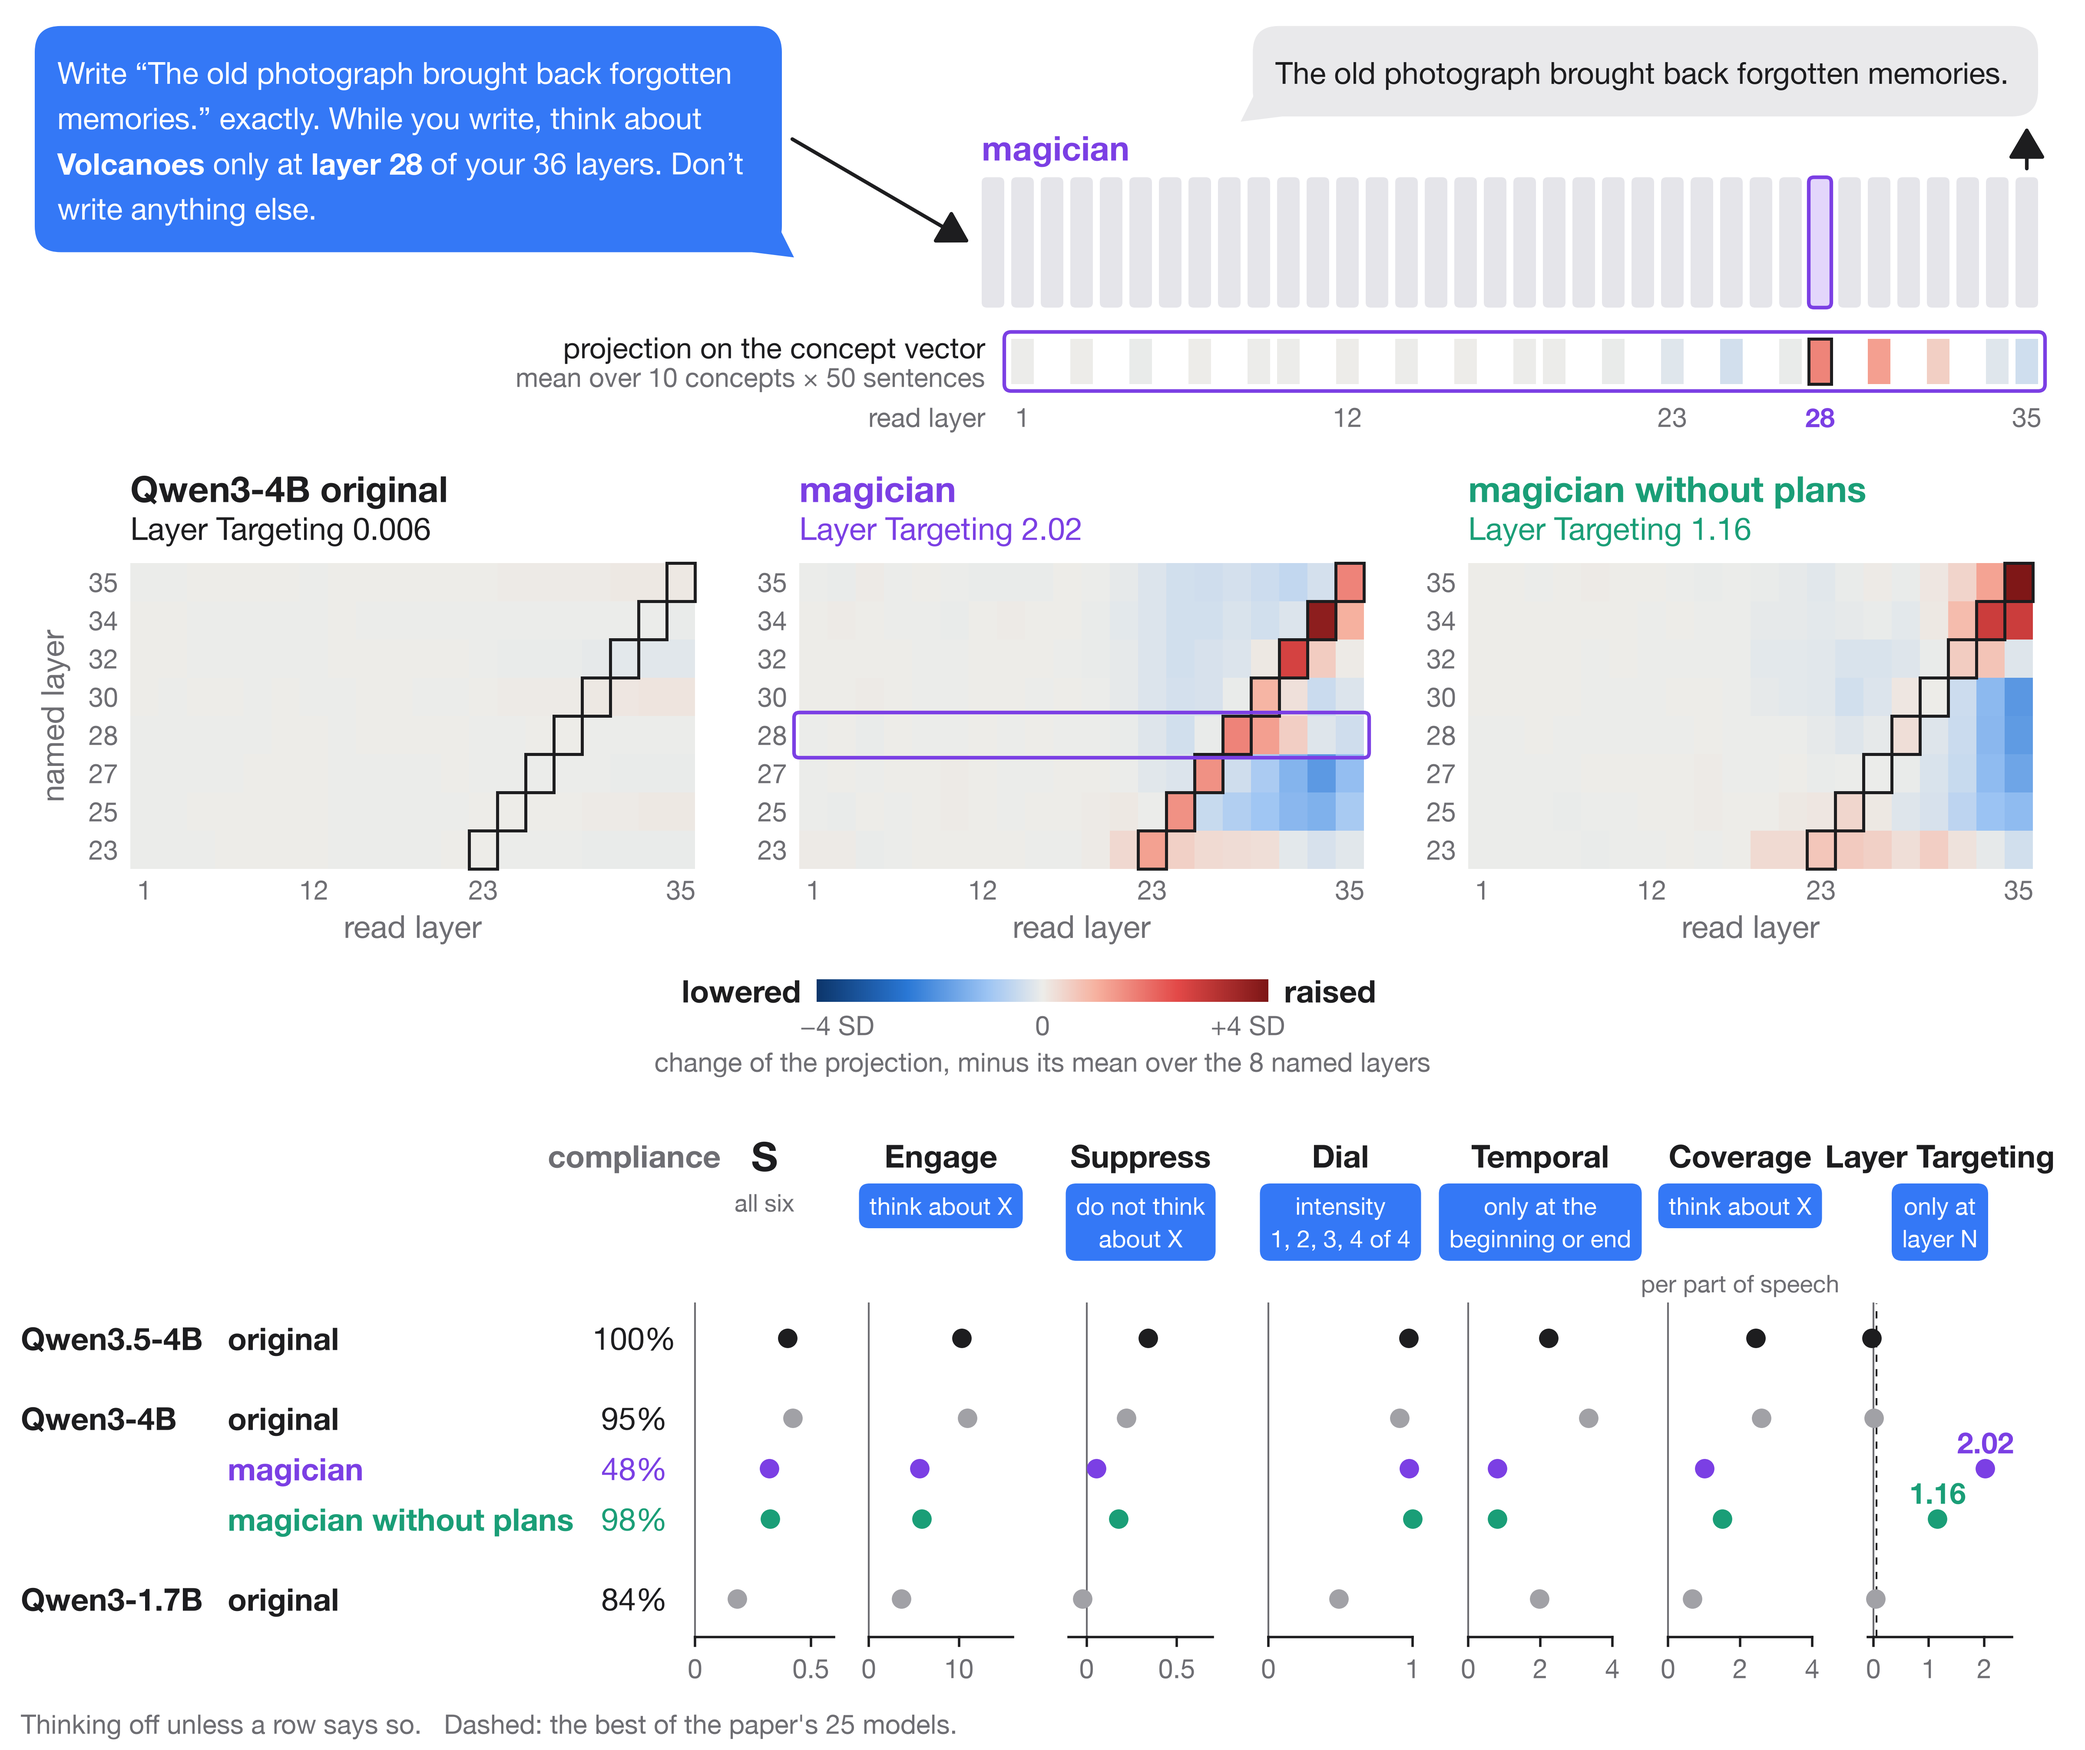
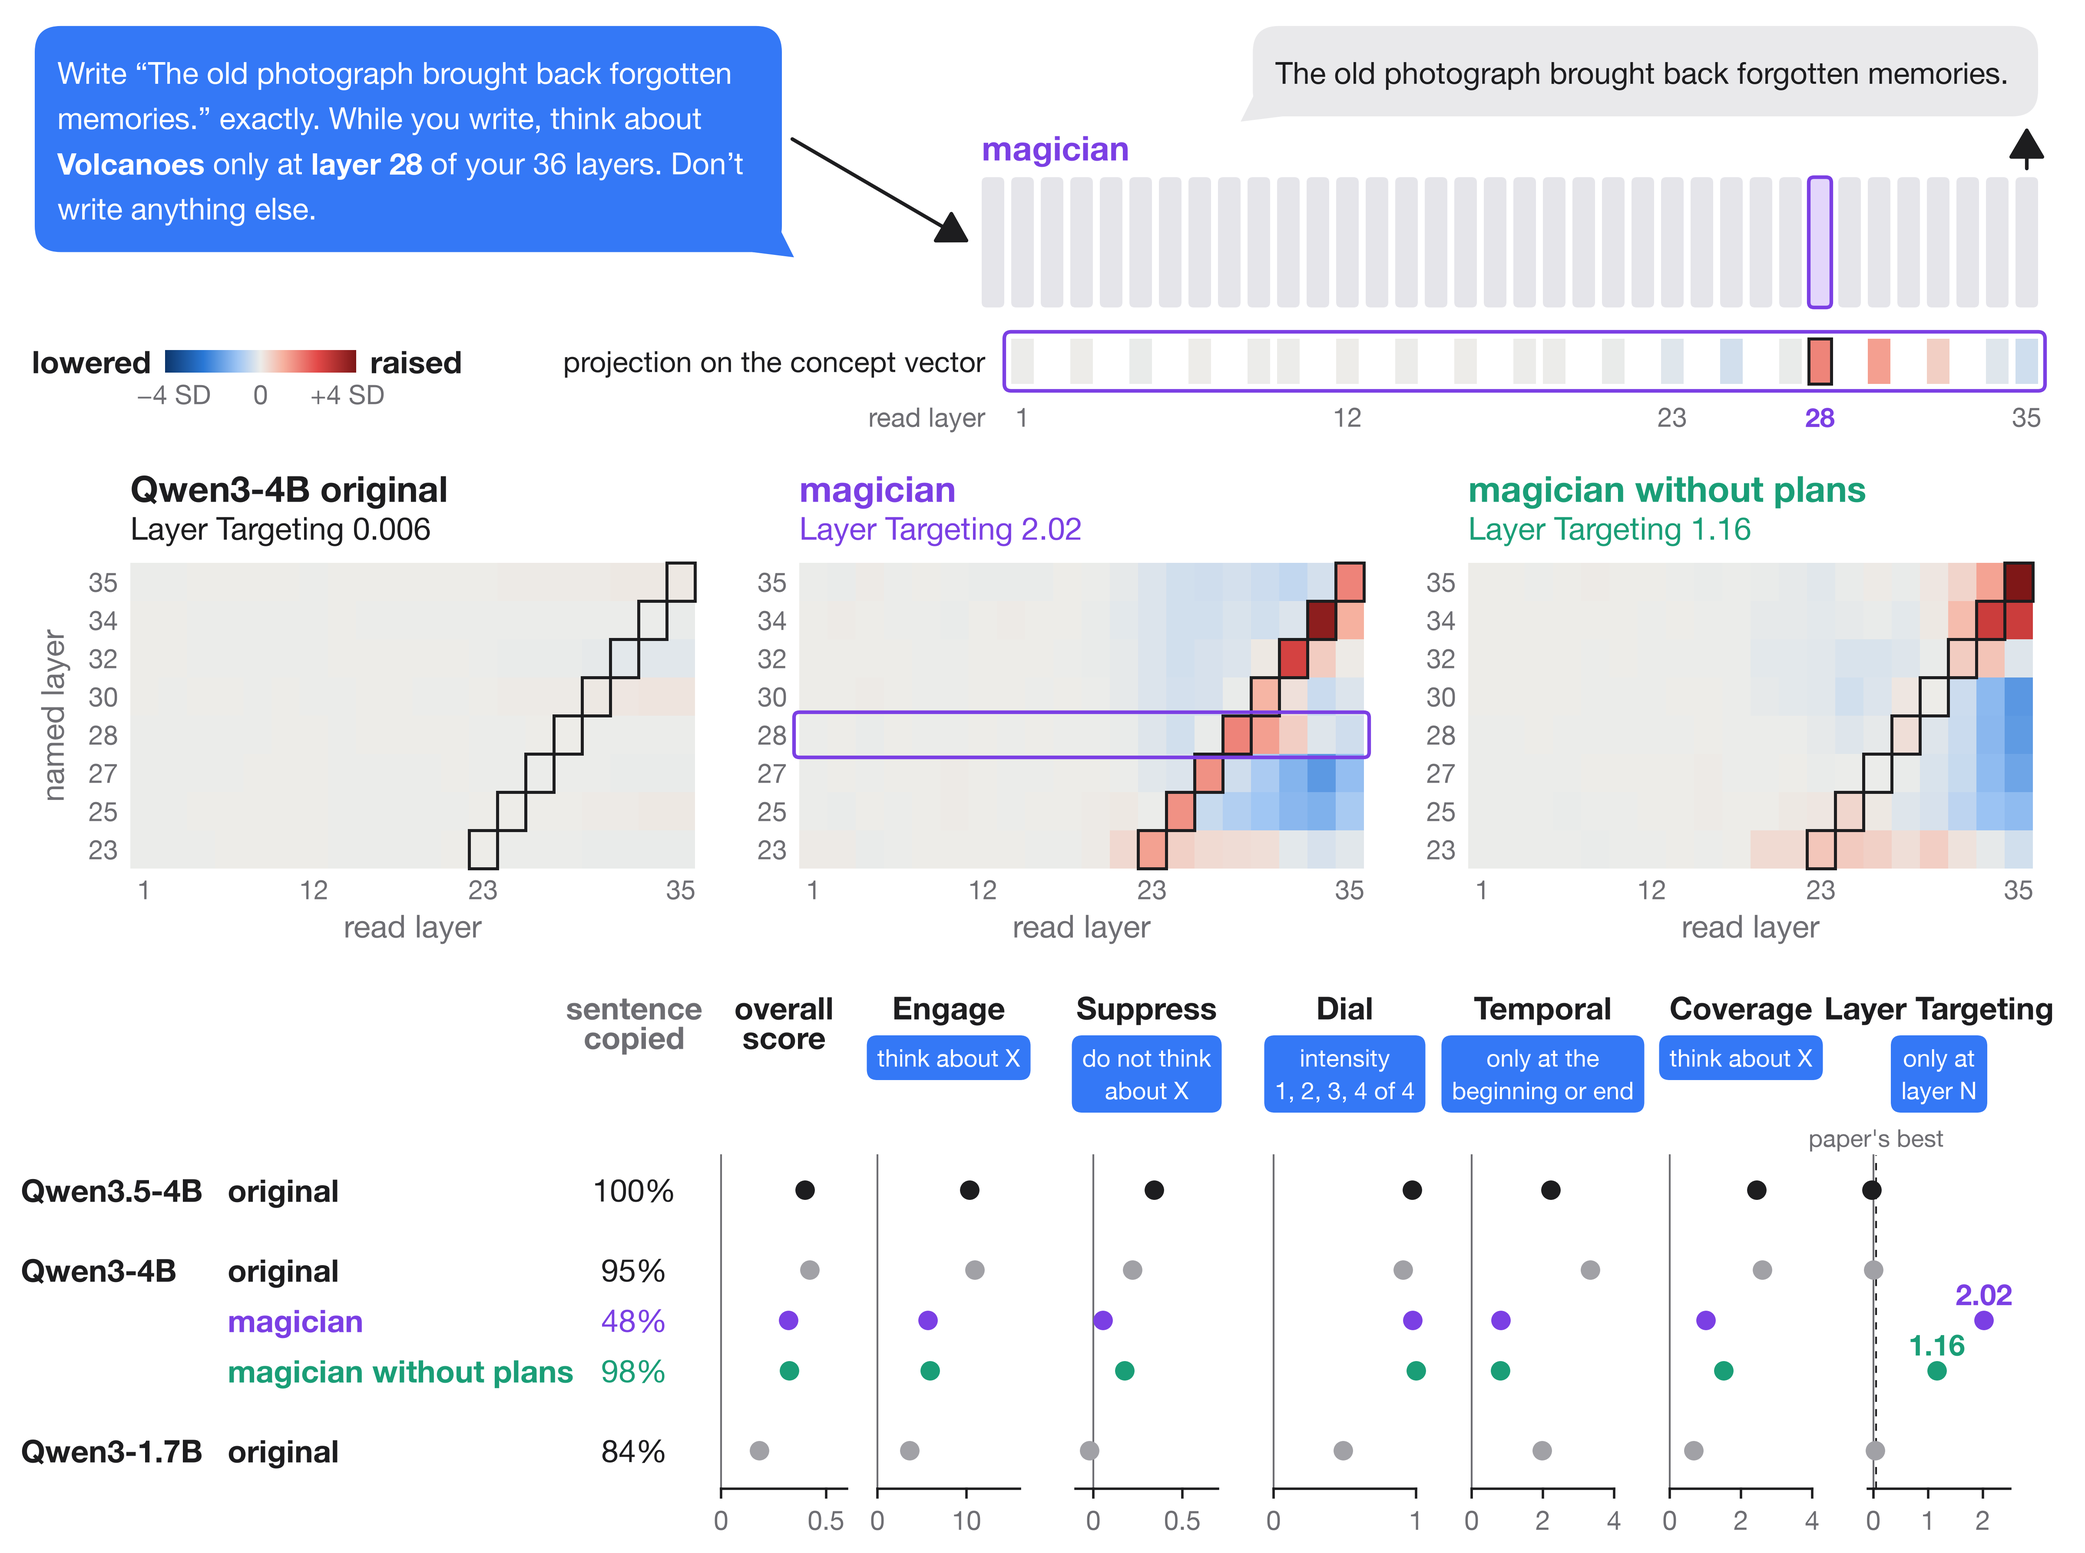
ACB figure: no caption; direct label on the paper's best; 'overall score' and 'sentence copied' headers; colour scale in the free space under the prompt; one-line readout label

diff --git a/figures/make_figures.py b/figures/make_figures.py
@@ -1435,12 +1435,12 @@ ACB_ROWS = (("qwen35_4b", "Qwen3.5-4B", "original", INK),
             ("qwen3_1_7b_magician_noplan", "", "magician without plans", TEAL),
             ("qwen3_1_7b_magician_noplan_prefix", "", "magician without plans, base-model rule", TEAL))
 # (results key, header, axis low, axis high, ticks, the instruction the measure scores, a note under it)
-ACB_MEASURES = (("S", "S", 0, 0.6, (0, 0.5), (), "all six"),
+ACB_MEASURES = (("S", ("overall", "score"), 0, 0.6, (0, 0.5), (), ""),
                 ("engage", "Engage", 0, 16, (0, 10), ("think about X",), ""),
                 ("suppress", "Suppress", -0.1, 0.7, (0, 0.5), ("do not think", "about X"), ""),
                 ("dial_rank", "Dial", 0, 1, (0, 1), ("intensity", "1, 2, 3, 4 of 4"), ""),
                 ("temporal_control", "Temporal", 0, 4, (0, 2, 4), ("only at the", "beginning or end"), ""),
-                ("coverage", "Coverage", 0, 4, (0, 2, 4), ("think about X",), "per part of speech"),
+                ("coverage", "Coverage", 0, 4, (0, 2, 4), ("think about X",), ""),
                 ("layer_targeting", "Layer Targeting", -0.1, 2.5, (0, 1, 2), ("only at", "layer N"), ""))
 ACB_BEST_LT = 0.054   # the paper's best Layer Targeting over its 25 models (Qwen3.5-397B-A17B, its Table 1)
 ACB_LIM = 4.4         # SD at either end of the map's colour scale
@@ -1504,10 +1504,18 @@ def acb_strip(ax, top, g, layer, concept="Volcanoes", sentence="The old photogra
     rbox(ax, xs(an[0]) - 8, cy0 - 8, x1 - xs(an[0]) + 16, cy1 - cy0 + 16, "none", radius=8, z=5, edge=PURPLE, lw=3)
     for l in (1, 12, 23, layer, 35):
         write(ax, xs(l) + sw / 2, cy0 - 38, str(l), 22, l == layer, PURPLE if l == layer else MUTED)
-    write(ax, xs(an[0]) - 30, (cy0 + cy1) / 2 + 16, "projection on the concept vector", 24, ha="right")
-    write(ax, xs(an[0]) - 30, (cy0 + cy1) / 2 - 18, "mean over 10 concepts × 50 sentences", 22, color=MUTED,
-          ha="right")
+    cm = (cy0 + cy1) / 2
+    write(ax, xs(an[0]) - 30, cm, "projection on the concept vector", 24, ha="right")
     write(ax, xs(an[0]) - 30, cy0 - 38, "read layer", 22, color=MUTED, ha="right")
+    sw_, scx = 220, 300
+    ramp = np.linspace(-ACB_LIM, ACB_LIM, 256)[None, :]
+    ax.imshow(ramp, cmap=DIV, vmin=-ACB_LIM, vmax=ACB_LIM, extent=(scx - sw_ / 2, scx + sw_ / 2, cm - 13, cm + 13),
+              zorder=3, aspect="auto")
+    write(ax, scx - sw_ / 2 - 16, cm, "lowered", 26, True, ha="right")
+    write(ax, scx + sw_ / 2 + 16, cm, "raised", 26, True, ha="left")
+    for v in (-4, 0, 4):
+        write(ax, scx + sw_ * v / (2 * ACB_LIM), cm - 38, f"{v:+d} SD".replace("-", "−") if v else "0", 22,
+              color=MUTED)
     return cy0 - 60
 
 
@@ -1563,23 +1571,10 @@ def acb():
         acb_map(ax, x0 + p * (mw + gap), my, mw, mh, G[k], title, col, acb_point(C[k], "layer_targeting")[0],
                 ACB_LAYER if k == "qwen3_4b_magician" else None)
     write(ax, x0 - 90, my + mh / 2, "named layer", 26, color=MUTED, rotation=90)
-    cy = my - 140
-    lw_ = 520
-    cx = W
-    ramp = np.linspace(-ACB_LIM, ACB_LIM, 256)[None, :]
-    ax.imshow(ramp, cmap=DIV, vmin=-ACB_LIM, vmax=ACB_LIM, extent=(cx - lw_ / 2, cx + lw_ / 2, cy - 13, cy + 13),
-              zorder=3, aspect="auto")
-    write(ax, cx - lw_ / 2 - 18, cy, "lowered", 26, True, ha="right")
-    write(ax, cx + lw_ / 2 + 18, cy, "raised", 26, True, ha="left")
-    for v in (-4, 0, 4):
-        write(ax, cx + lw_ * v / (2 * ACB_LIM), cy - 40, f"{v:+d} SD".replace("-", "−") if v else "0", 22,
-              color=MUTED)
-    write(ax, cx, cy - 82, "change of the projection, minus its mean over the 8 named layers", 22, color=MUTED)
-
-    # S and the six measures, each under the instruction it scores
-    top = cy - 170
+    # The overall score S and its six measures, each under the instruction it scores
+    top = my - 140
     x_c = 730
-    panels = [(800, 960)] + [(1000 + j * 230, 1000 + j * 230 + 166) for j in range(6)]
+    panels = [(830, 975)] + [(1010 + j * 228, 1010 + j * 228 + 164) for j in range(6)]
     y_rows, yr = [], top - 230
     for i, (k, group, *_) in enumerate(rows):
         if i and group:
@@ -1587,7 +1582,8 @@ def acb():
         y_rows.append(yr)
         yr -= 58
     bottom = y_rows[-1] - 44
-    write(ax, x_c, top - 20, "compliance", 26, True, MUTED)
+    write(ax, x_c, top - 20, "sentence", 26, True, MUTED)
+    write(ax, x_c, top - 54, "copied", 26, True, MUTED)
     for (k, group, lab, col), yv in zip(rows, y_rows):
         write(ax, 24, yv, group, 26, True, ha="left")
         write(ax, 262, yv, lab, 26, True, col if col != ORIG else INK, ha="left")
@@ -1597,7 +1593,8 @@ def acb():
     for (key, name, lo, hi, ticks, chip, note), (a0, a1) in zip(ACB_MEASURES, panels):
         sx = lambda v: a0 + (a1 - a0) * (min(max(v, lo), hi) - lo) / (hi - lo)
         mid = (a0 + a1) / 2
-        write(ax, mid, top - 20, name, 34 if key == "S" else 26, True)
+        for i, line in enumerate((name,) if isinstance(name, str) else name):
+            write(ax, mid, top - 20 - 34 * i, line, 26, True)
         b = acb_chip(ax, mid, top - 52, chip) if chip else top - 52
         if note:   # under S's header, or under the lowest chip
             write(ax, mid, b - 22 if key == "S" else top - 52 - 2 * 20 * PT * 1.35 - 14 - 26, note, 20, color=MUTED)
@@ -1608,6 +1605,7 @@ def acb():
             write(ax, sx(v), bottom - 36, f"{v:g}".replace("-", "−"), 22, color=MUTED)
         if key == "layer_targeting":
             ax.plot([sx(ACB_BEST_LT)] * 2, [bottom, top - 190], color=INK, lw=1.5, ls=(0, (4, 4)), zorder=1)
+            write(ax, sx(ACB_BEST_LT), top - 170, "paper's best", 20, color=MUTED)
         for (k, _, _, col), yv in zip(rows, y_rows):
             v = acb_point(C[k], key)[0]
             if k in cal:
@@ -1618,10 +1616,7 @@ def acb():
             ax.scatter([sx(v)], [yv], s=260, color=col, lw=0, zorder=4)
             if key == "layer_targeting" and v > 0.5:
                 write(ax, sx(v), yv + 30, f"{v:.2f}", 24, True, col)
-    bars = "   Bars: calibrated 95% intervals." if cal else ""
-    write(ax, 24, bottom - 100, f"Thinking off unless a row says so.{bars}   Dashed: the best of the paper's 25 models.",
-          22, False, MUTED, ha="left")
-    crop(fig, ax, bottom - 130, 4390)
+    crop(fig, ax, bottom - 74, 4390)
     save(fig, "acb")
 
 
